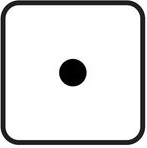
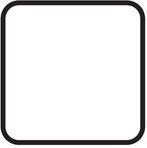
updates

Changed region(s): [[0.381, 0.3784, 0.5986, 0.5946]]

diff --git a/Unit 07_JavaScript Control Structures/01_Random and Comparison/script.js b/Unit 07_JavaScript Control Structures/01_Random and Comparison/script.js
@@ -1,0 +1,17 @@
+function Roll(){
+    var diceElement = document.getElementById("dice");
+    // diceElement.src = "images/dice3.jpg";
+    let random = Math.random() * 6 + 1;
+    random = Math.trunc(random);
+    // console.log(random);
+
+    if(random === 1){
+        diceElement.src = "images/dice1.jpg";
+    } else if(random === 2){
+        diceElement.src = "images/dice2.jpg";
+    }
+    //TODO:  YOU do 3 to 6
+
+
+
+}

diff --git a/Unit 07_JavaScript Control Structures/01_Random and Comparison/index.html b/Unit 07_JavaScript Control Structures/01_Random and Comparison/index.html
@@ -6,7 +6,10 @@
     <title>Document</title>
 </head>
 <body>
-    <img src="" alt="">
+    <img id="dice" src="images/dice0.jpg" alt="">
+    <br>
     <button type="button" onclick="Roll()">Roll</button>
+
+    <script src="script.js"></script>
 </body>
 </html>
